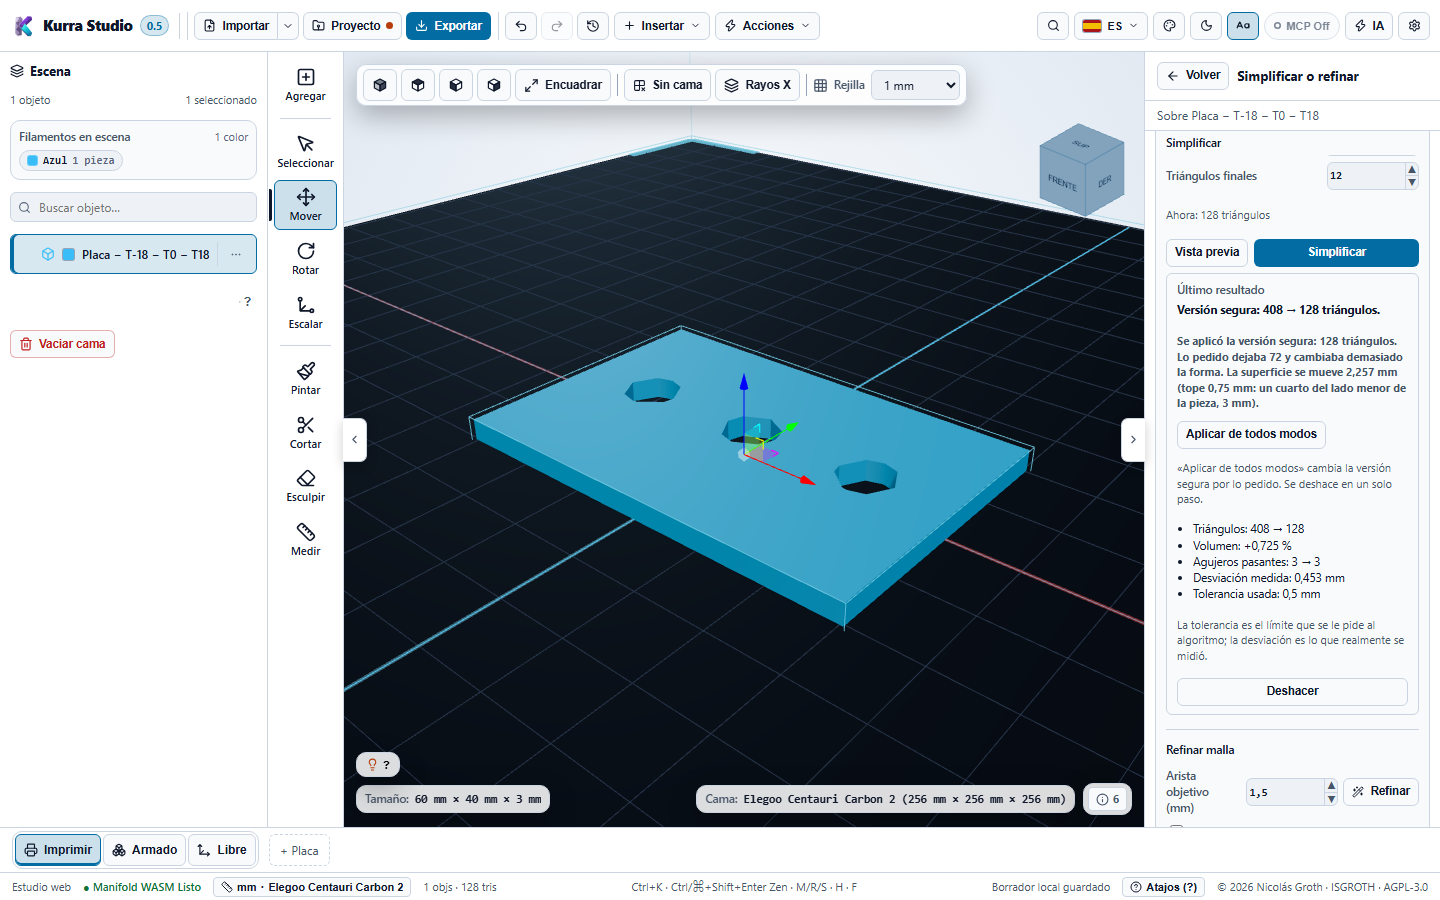
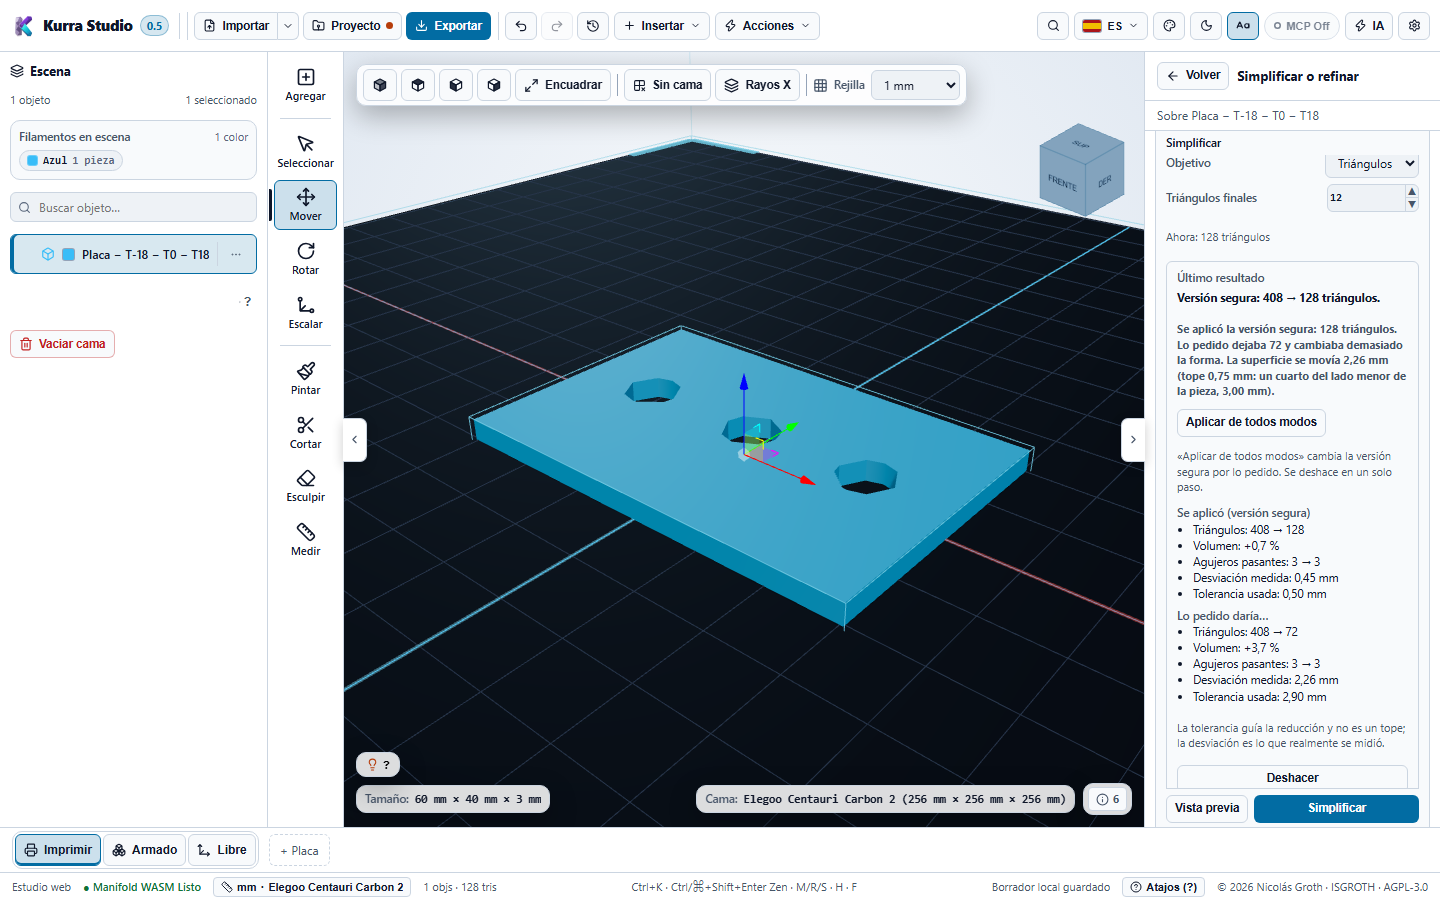
docs(simplificar): capturas regeneradas, registro de evaluaciones (usabilidad 86), changelog, tablero y traspaso

diff --git a/docs/TRASPASO.md b/docs/TRASPASO.md
@@ -1,13 +1,14 @@
 # Nota de traspaso entre sesiones
 
-Se reescribe al cerrar cada conversación del orquestador (regla 11 de «Control de agentes» en `CLAUDE.md`). Última actualización: 28 de noviembre de 2026, mediodía.
+Se reescribe al cerrar cada conversación del orquestador (regla 11 de «Control de agentes» en `CLAUDE.md`). Última actualización: 28 de noviembre de 2026, tarde.
 
 ## Estado
 
-- El repositorio está en **`main`**, igual a GitHub. Sin agentes, sin servidores, sin worktrees, sin ramas de trabajo. `CLAUDE.md` tiene un cambio sin confirmar en la regla 11 que hizo el autor: no tocarlo.
+- El repositorio está en **`main`**, igual a GitHub. Sin agentes, sin servidores, sin worktrees, sin ramas de trabajo. El cambio de la regla 11 de `CLAUDE.md` quedó en el commit `712176cc`, hecho desde otra sesión durante el lote de Simplificar; entró a `main` con ese lote.
 - En `main`: `tsc` y build limpios, 4812 pruebas del programa y 220 del servidor MCP en verde.
 - Cerrado entre el 27 y el 28: **centro de mensajes (87)**, **imán** (el desfase entre vista previa y hueco) y la monotonía de **Simplificar por tolerancia**.
-- Bajo el mínimo: **placas 83** (en revisión por decisión del autor) y **Simplificar: usabilidad 80, funcional 84**.
+- Cerrado el 28 en la tarde: **usabilidad de Simplificar, 86** (lote `fix/simplificar-usabilidad`, dos rondas; 4 agentes, cerca de 822 k tokens).
+- Bajo el mínimo: **placas 83** (en revisión por decisión del autor) y **Simplificar funcional 84** (sin reevaluar).
 - Consumo del 27 en la noche al 28 a mediodía, solo agentes: cerca de 2,3 millones de tokens en 13 agentes (QA 117 k + 171 k; interfaz 146 k + 226 k + 204 k + 174 k; motor 164 k + 289 k; evaluación 178 k + 177 k + 151 k + 162 k + 180 k), más un orquestador de sesión muy larga. Muy por encima del tope de 6 puntos por día, con acuerdo del autor («sigue con todo hoy», «sigue con la cola»). La semana reinicia el 3-dic a las 01:00 UTC.
 - Detalle: `docs/EVALUACIONES.md`, secciones «27-nov-2026 · Noche», «28-nov-2026 · Madrugada» y «28-nov-2026 · Mañana».
 
@@ -36,10 +37,12 @@ Se tomaron la madrugada del 28 para no frenar; todas se pueden revertir:
 - Enter con el foco en un botón ya no entra a un grupo.
 - `cmd.cat.operations` de la paleta pasó de «Operaciones Manifold 3D» a «Operaciones de forma».
 - Simplificar: una tolerancia mayor que la pieza ya no da `MESH_EMPTY`; se usa el mejor peldaño válido (cambia el resultado de `kura_simplify_mesh` en ese caso).
+- Simplificar con malla abierta (28-nov, tarde): no se bloquea. El aviso al abrir el panel explica que el motor intentará cerrarla soldando vértices y recomienda «Reparar malla». Bloquear habría cambiado el comportamiento.
+- Simplificar: una desviación real muy chica no se muestra como cero (0,001 mm queda «0,001 mm», excepción a la regla de 2 decimales); un cambio de volumen ínfimo se muestra «menos de 0,1 %».
 
 ## Lo que sigue, en orden
 
-1. **Simplificar, usabilidad (80).** Lote de interfaz: tras editar «Triángulos finales», Tab salta a «Arista objetivo» de Refinar y con Enter se ejecuta «Refinar» sin querer; el foco cae a `body` tras «Aplicar de todos modos» y tras «Reparar malla» lanzado desde el panel; el informe de la versión segura mezcla números de lo pedido y de lo aplicado (separar en un bloque «Lo pedido daría…»); avisos en pasado en la vista previa; sin avance real durante el cálculo; la malla abierta se avisa recién al pedir la vista previa; decimales desparejos; el mensaje no dice que se aplicó la versión segura.
+1. **Simplificar, usabilidad: cerrado en 86.** Para subir a 90, si el autor lo pide: al cerrar con Esc o «Volver» el foco no vuelve al control que abrió el panel (desde la paleta queda en «Agregar»; desde Geometría, en el otro «Simplificar…» fuera de pantalla); «Escape restaura» no vuelve al valor de partida; el resumen rechaza lo pedido por cerrar agujeros y la versión segura también cierra uno; «Detalle técnico: Not manifold» sin traducir; el campo Tolerancia conserva la coma al cambiar de idioma; el encabezado fijo tapa la casilla de aristas al desplazar; informe de unas 20 líneas en 296 px; el modo no se recuerda entre aperturas (vive en estado local; hay que guardarlo en `RightInspector`).
 2. **Simplificar, funcional (84, sin reevaluar tras corregir el colapso de la escalera).** Lote de motor chico: «Por cantidad» marca la meta como alcanzada aunque quede muy por debajo y sigue buscando por bisección, que supone una monotonía que Manifold no tiene; por tolerancia se estanca sin avisar (sugerir «Por cantidad»); no se cuentan los cuerpos antes y después. Decisión del autor pendiente: cambiar a meshoptimizer (MIT), monótono y rápido, que evitaría las 13 llamadas pero exige revalidar que el sólido quede cerrado.
 3. **Placas (83), en revisión.** Si el autor la retoma: con «Fuera de volumen» la ficha activa corta su nombre a «Pla…» a 1366 px; el aviso «No cabe en la cama…» queda como columna angosta a 1024 px, tapa la barra de selección y sigue en Armado y Libre; «Solo esta» no encuadra la placa activa tras borrar ni al cambiar de ficha; en fichas compactas el estado es solo icono y su `title` no lo nombra; Tab hace dos paradas por placa; Armado y Libre se ven iguales; convertir en placas no trae «Deshacer» en su mensaje. Las notas de cuatro rondas (84, 80, 84, 83) no convergen con vueltas sueltas: conviene evaluar con dos evaluadores sobre la misma versión.
 4. **Centro de mensajes, para subir de 87:** un informativo que va directo al histórico no da señal visible; «…imprime una placa a la vez» sigue como información; la advertencia de orientación mezclada no trae «Reparar malla»; el panel no tiene botón de cierre visible; «Vaciar» sin deshacer. Menor de QA abierto: tras Ctrl+Z de «Convertir en placas» el foco cae a `body`.

diff --git a/docs/EVALUACIONES.md b/docs/EVALUACIONES.md
@@ -1191,3 +1191,29 @@ Costos aceptados por el autor al fusionar: «Por tolerancia» hace hasta 13 llam
 Sin bloqueos duros. El funcional confirmó con mediciones: monotonía en 6 series (dos modelos reales), todo resultado cerrado y manifold, volumen informado igual al medido, versión segura dentro de sus límites, «sin pérdida» exacto, y MCP igual al motor. Tiempo en 253.000 triángulos: 2,7 s a 0,02 mm y 7,5 s a 10 mm.
 
 Corregido después de evaluar, por el orquestador (`fix/simplificar-escalera-colapso`): los peldaños que vacían la pieza ya no cuentan y se usa el mejor de los válidos, con prueba de monotonía en una pieza chica; se actualizaron las dos pruebas que esperaban `MESH_EMPTY` (`commandResultGuards.test.ts` y `headlessEngineErrors.test.ts`); la guía dice que la tolerancia no acota la desviación y corrige el ejemplo de la esfera de 512 triángulos. `tsc` y build limpios, 4812 pruebas del programa y 220 del servidor MCP en verde. No reevaluado tras esta corrección. Queda abierto todo lo de usabilidad.
+
+## 28-nov-2026 · Tarde: usabilidad de Simplificar (80 → 86)
+
+Lote `fix/simplificar-usabilidad`, con plan y diseño breve aprobados por el autor antes de lanzar agentes. Un agente a la vez.
+
+**Ronda 1** (`dev-ui`, Sonnet · 17 min · 266 k). Los ocho puntos del traspaso: Tab y Enter (los botones pasan a `aria-disabled` con un texto de estado, así un valor inválido ya no saca a «Vista previa» del orden de Tab; Enter en un campo pide la vista previa y en «Arista objetivo» no hace nada); foco tras «Aplicar de todos modos» y tras «Reparar malla»; informe de la versión segura en dos bloques («Se aplicó (versión segura)» y «Lo pedido daría…»); avisos de la vista previa en condicional; avance por pasos también al aplicar (el motor ya informaba los peldaños: no se tocó); aviso de malla abierta al abrir el panel; una regla de decimales (`src/i18n/simplifyNumbers.ts`: mm con 2, % con 1); el mensaje dice que se aplicó la versión segura.
+
+**QA en navegador** (`qa`, Sonnet · 26 min · 142 k): aprobado sin fallos. Recorrido nuevo `e2e/qa-simplificar-usabilidad.spec.ts` (6 casos). No cubrió en navegador: avance con modelo grande, decimales, caso bloqueado sin versión segura, temas, paleta.
+
+**Evaluación a ciegas, ronda 1** (sobre `ac164ec4`):
+
+| Evaluador | Modelo | Duración | Tokens | Antes | Nota | Lo que más resta |
+|---|---|---|---|---|---|---|
+| Usabilidad | Opus | 9 min | 163 k | 80 | 82 | Con malla abierta el aviso decía «repárala antes de simplificar» pero igual aplicaba; la desviación medida supera la tolerancia que la ayuda prometía como máximo (0,10 mm pedidos, 1,48 mm medidos); Esc en un campo inválido manda el foco a `body`; «Por cantidad» no dice si se cumplió el objetivo; informes viejos a la vista tras cambiar un valor; «Volumen: -0,00001 %»; a 1024×768 los botones quedan bajo el informe |
+
+**Ronda 2** (mismo `dev-ui`, reanudado · 11 min · 351 k acumulados entre las dos rondas). Aviso de malla abierta honesto (el motor intenta cerrarla soldando vértices a 1e-4 mm; si no lo logra, no aplica nada: no se cambió el comportamiento, solo el texto); la ayuda ya no promete un máximo y el informe advierte cuando la desviación medida supera la tolerancia; Esc y Enter con valor inválido dejan el foco en el campo; línea de objetivo cumplido o no en «Por cantidad» y validación si el objetivo supera los triángulos actuales; cambiar modo o valor retira el informe anterior y el «Se deshizo…»; «Vista previa cancelada»; «menos de 0,1 %» y «sin cambio»; signo menos tipográfico; «Sin pérdida» no muestra tolerancia; pie de acciones fijo; un solo anuncio en vivo por resultado.
+
+Verificación del orquestador sobre `3d822917`: `tsc` limpio, 4841 pruebas del programa y 220 del servidor MCP en verde; 32 de 32 en los recorridos de Simplificar (`qa-simplificar-usabilidad`, `simplificar-titulo-fijo`, `defectos-n26`, `qa25b`, `qa25h`, `qa25j`, `qa25f`; 17,7 min). Sin segunda pasada de QA con agente.
+
+**Evaluación a ciegas, ronda 2** (evaluador nuevo, sobre `3d822917`):
+
+| Evaluador | Modelo | Duración | Tokens | Antes | Nota | Lo que más resta |
+|---|---|---|---|---|---|---|
+| Usabilidad | Opus | 8 min | 166 k | 82 | 86 | Al cerrar con Esc o «Volver» el foco no vuelve al control que abrió el panel (desde la paleta queda en «Agregar»; desde Geometría, en el otro «Simplificar…» fuera de pantalla); «Escape restaura» no vuelve al valor de partida (500 sobre 0,5 deja 50); el resumen rechaza lo pedido porque «se cerraban agujeros» y la versión segura también cierra uno; «Detalle técnico: Not manifold» sin traducir; el campo Tolerancia conserva la coma tras cambiar a inglés; el encabezado fijo tapa la casilla de aristas al desplazar; informe de unas 20 líneas en 296 px; el modo no se recuerda entre aperturas; tras rehacer el panel queda sin mensaje |
+
+Sin bloqueos duros. Simplificar pasa el mínimo de usabilidad (86; meta 90). Funcional sigue en 84 sin reevaluar (lote de motor pendiente). Consumo del lote: 4 agentes, cerca de 822 k tokens (interfaz 351 k, QA 142 k, evaluación 163 k + 166 k).

diff --git a/docs/TABLERO.md b/docs/TABLERO.md
@@ -8,7 +8,7 @@
 
 **Pruebas en `main`:** 4776 del programa y 220 del servidor MCP, en verde. Recorridos de navegador de lo nuevo, todos en verde: patrones 23, Dividir a mano 2, partes de la figura 1, tapa roscada 3, acople de tubería 2, instrucciones de armado 2, arrastre 15, escala de grupo 2, Simplificar 21.
 
-Cerrado (28-nov, usabilidad 87): centro de mensajes (un solo mensaje emergente e iconos de errores, advertencias e información con su histórico). En revisión por decisión del autor (28-nov): placas, 83 en su décima ronda tras dos lotes de usabilidad. Corregido el 28-nov: el desfase entre vista previa y hueco creado en los agregados (imán). Simplificar: monótono por tolerancia desde el 28-nov; usabilidad 80 y funcional 84, sigue en corrección. Las seis funcionalidades de la noche del 26 se evaluaron a ciegas el 27: ninguna llega al mínimo de 85 en usabilidad y dos tampoco en funcional (las dos variantes de Dividir). No se lanzaron correcciones: el autor pidió revisar el consumo y el rumbo antes de seguir.
+Cerrado (28-nov, usabilidad 87): centro de mensajes (un solo mensaje emergente e iconos de errores, advertencias e información con su histórico). En revisión por decisión del autor (28-nov): placas, 83 en su décima ronda tras dos lotes de usabilidad. Corregido el 28-nov: el desfase entre vista previa y hueco creado en los agregados (imán). Simplificar: monótono por tolerancia desde el 28-nov; usabilidad **86** desde el 28-nov en la tarde (sobre el mínimo, tras dos rondas del lote de usabilidad) y funcional 84, pendiente de un lote de motor. Las seis funcionalidades de la noche del 26 se evaluaron a ciegas el 27: ninguna llega al mínimo de 85 en usabilidad y dos tampoco en funcional (las dos variantes de Dividir). No se lanzaron correcciones: el autor pidió revisar el consumo y el rumbo antes de seguir.
 
 Lo que entró hoy y está en `main`:
 
@@ -186,7 +186,7 @@ Funciones que ya se usan y lo que les falta, en una línea cada una.
 | Segmentación estructural | Dividir el archivo en partes |
 | Pintura 3D | Pincel lento en mallas grandes |
 | Análisis de imprimibilidad | Revisar la versión reescrita |
-| Simplificar | Conmutador «Ver lo pedido»; reevaluar tras los cuatro defectos corregidos el 26-nov |
+| Simplificar | Usabilidad 86 (28-nov). Para subir: foco al cerrar el panel, «Escape restaura» al valor de partida, informe más compacto. Funcional 84: lote de motor pendiente |
 | Asistentes | Recetas guardables por el usuario (en Planificada); revisión de la galería |
 | Chat IA y proveedores | Previsualizar antes de aplicar; que no encoja el visor; adjuntar imágenes |
 | Servidor MCP | Modo propuesta y permisos por operación (en Planificada); revisión funcional |

diff --git a/CHANGELOG.md b/CHANGELOG.md
@@ -10,6 +10,7 @@ El proyecto sigue versionamiento pre-1.0 (`0.x.y`) durante su maduración hasta 
 
 ## [Sin publicar]
 
+- **Simplificar, más claro y usable con teclado.** El informe de la versión segura separa «Se aplicó (versión segura)» de «Lo pedido daría…»; en la vista previa los avisos van en condicional y avisa cuando la desviación medida supera la tolerancia. «Por cantidad» dice si se alcanzó el objetivo. El avance se ve por pasos también al aplicar, y los botones quedan fijos al pie del panel. Una malla abierta se avisa al abrir el panel, con **Reparar malla**. Tab ya no salta a Refinar con un valor inválido, Enter en un campo pide la vista previa (nunca aplica ni refina) y el foco no se pierde tras «Aplicar de todos modos», reparar, cancelar o Esc. Los números siguen una sola regla (mm con 2 decimales, % con 1).
 - **Simplificar por tolerancia ya no empeora al pedir más.** Antes una tolerancia mayor podía dejar más triángulos que una menor (en un modelo real, 4 mm dejaba 9.790 y 15 mm dejaba 15.390). Ahora la tolerancia que escribes es un máximo: se prueban tolerancias fijas hasta ese valor y se aplica la que deja menos triángulos; el informe muestra la «Tolerancia usada». Una tolerancia mayor que la pieza ya no da error: se usa la mayor que todavía sirve. Con tolerancias grandes en mallas muy pesadas el cálculo tarda más (se puede cancelar). Textos de la versión segura más claros; en la paleta, Simplificar está bajo «Malla»; el título del grupo ya no se corta al desplazar el informe.
 - **Servidor MCP:** `kura_simplify_mesh` devuelve en `toleranceMm` la tolerancia realmente usada, que puede ser menor que la pedida.
 - **Corregido en los agregados** (alojamiento de imán, torreta, colgar en el muro, paso de cable): el agregado queda exactamente donde lo mostraba la vista previa. Antes podía correrse unas décimas de milímetro, porque el clic llega con las coordenadas redondeadas al píxel.
